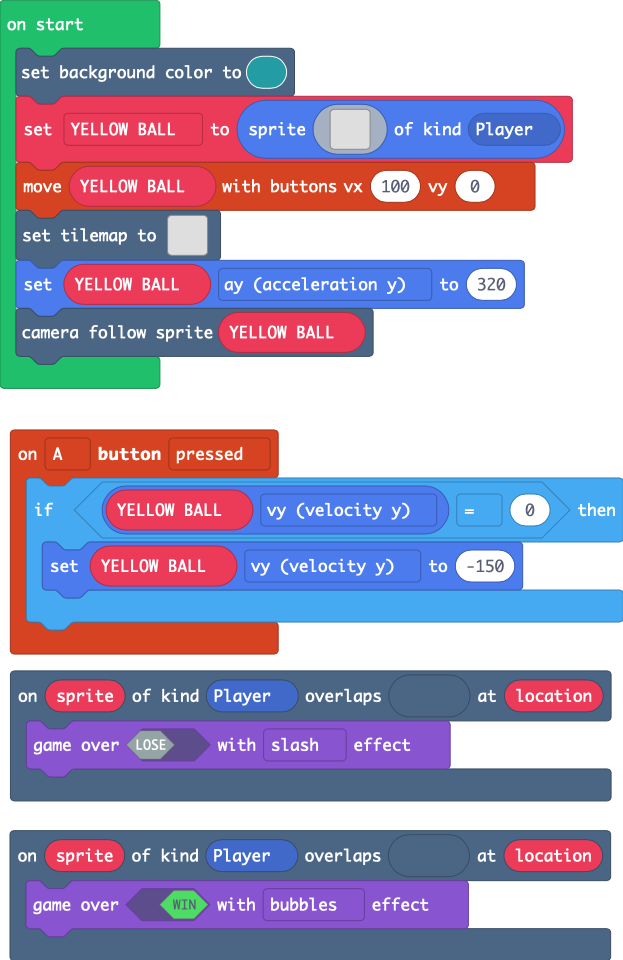
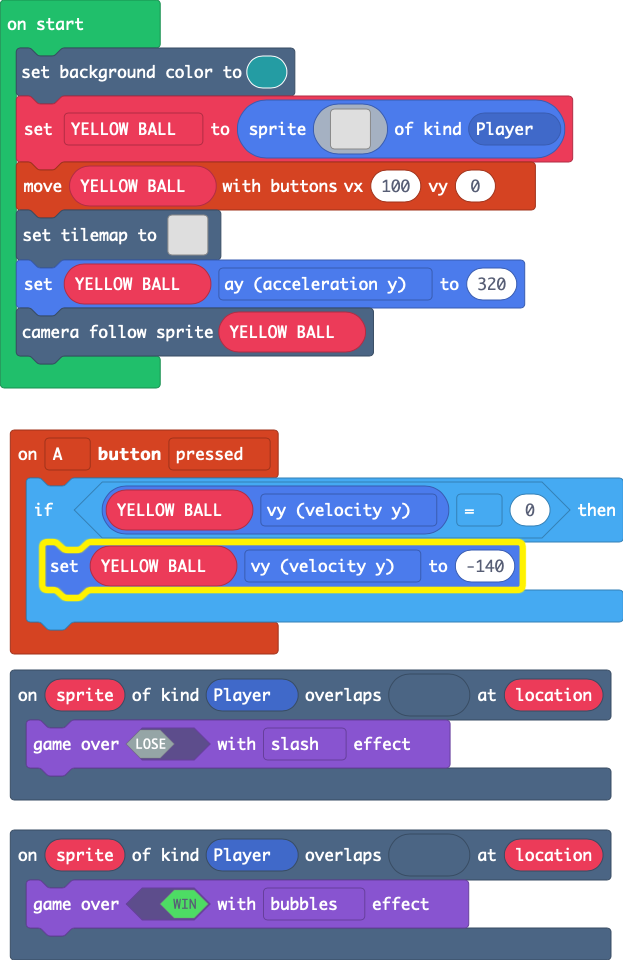
general save

diff --git a/main.ts b/main.ts
@@ -84,7 +84,7 @@ scene.onOverlapTile(SpriteKind.Player, myTiles.tile4, function (sprite, location
 })
 controller.A.onEvent(ControllerButtonEvent.Pressed, function () {
     if (YELLOW_BALL.vy == 0) {
-        YELLOW_BALL.vy = -150
+        YELLOW_BALL.vy = -140
     }
 })
 let YELLOW_BALL: Sprite = null
